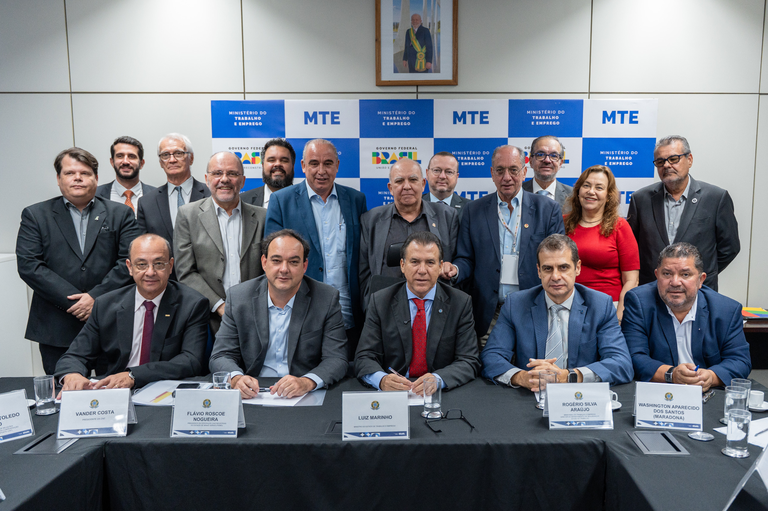
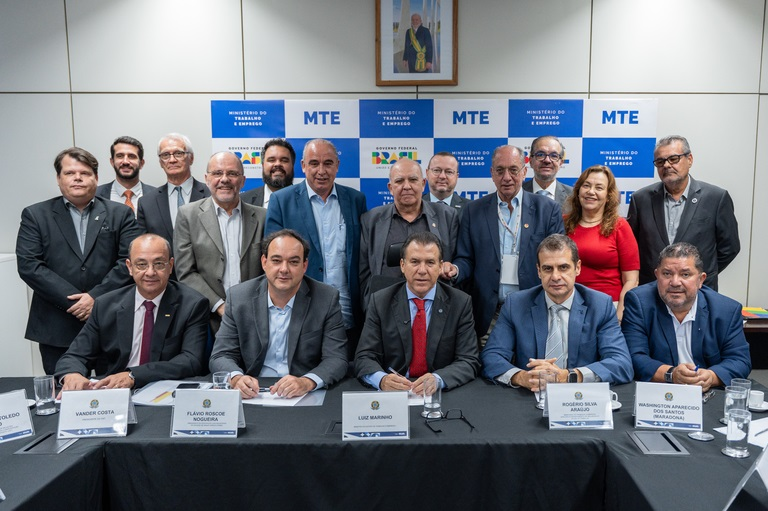
updt: imagem

diff --git a/styles.css b/styles.css
@@ -34,6 +34,10 @@
     /* Shadow tokens */
     --shadow-soft: 0 14px 28px rgba(18, 52, 59, 0.08);
     --shadow-strong: 0 22px 36px rgba(18, 52, 59, 0.12);
+    --surface-radius: 1.4rem;
+    --surface-border: 1px solid rgba(18, 52, 59, 0.08);
+    --surface-shadow: 0 18px 32px rgba(18, 52, 59, 0.1);
+    --surface-shadow-hover: 0 22px 38px rgba(0, 137, 148, 0.16);
 
     --max-width: 1200px;
 }
@@ -55,6 +59,7 @@ body {
 
 html {
     scroll-behavior: smooth;
+    scroll-padding-top: 8rem;
 }
 
 :focus-visible {
@@ -86,6 +91,11 @@ main {
     display: flex;
     flex-direction: column;
     gap: clamp(2.2rem, 5vw, 4rem);
+}
+
+section[id],
+footer[id] {
+    scroll-margin-top: 8rem;
 }
 
 @supports (content-visibility: auto) {
@@ -355,6 +365,7 @@ main {
     letter-spacing: 0.04em;
     text-transform: uppercase;
     color: var(--color-primary-dark);
+    max-width: 18ch;
 }
 
 .section p {
@@ -363,8 +374,26 @@ main {
     line-height: 1.7;
 }
 
+.section-lead {
+    max-width: 46rem;
+    font-size: 1.02rem;
+}
+
 .section.section--accent p {
     color: var(--color-text);
+}
+
+.news-card,
+.service-cards article,
+.client-grid figure,
+.about-credentials,
+.location-card,
+.location-directions,
+.contact-card,
+.contact-sidebar {
+    border-radius: var(--surface-radius);
+    border: var(--surface-border);
+    box-shadow: var(--surface-shadow);
 }
 
 .service-cards {
@@ -375,9 +404,7 @@ main {
 
 .service-cards article {
     padding: clamp(1.5rem, 3.4vw, 1.9rem) clamp(1.4rem, 3vw, 1.8rem);
-    border-radius: 1.4rem;
     background: linear-gradient(150deg, rgba(255, 255, 255, 0.92), rgba(226, 240, 242, 0.9));
-    border: 1px solid var(--color-line);
     transition: transform 0.2s ease, box-shadow 0.2s ease;
 }
 
@@ -388,7 +415,7 @@ main {
 .service-cards article:hover,
 .service-cards article:focus-within {
     transform: translateY(-6px);
-    box-shadow: 0 22px 38px rgba(0, 137, 148, 0.18);
+    box-shadow: var(--surface-shadow-hover);
 }
 
 .service-cards h3 {
@@ -408,10 +435,7 @@ main {
 .client-grid figure {
     margin: 0;
     padding: 1.4rem 1.2rem;
-    border-radius: 1.2rem;
     background: rgba(255, 255, 255, 0.94);
-    border: 1px solid rgba(18, 52, 59, 0.08);
-    box-shadow: 0 14px 28px rgba(18, 52, 59, 0.08);
     display: flex;
     justify-content: center;
     align-items: center;
@@ -423,7 +447,7 @@ main {
 .client-grid figure:hover,
 .client-grid figure:focus-within {
     transform: translateY(-6px);
-    box-shadow: 0 20px 36px rgba(0, 137, 148, 0.16);
+    box-shadow: var(--surface-shadow-hover);
 }
 
 .client-grid picture {
@@ -431,6 +455,7 @@ main {
     align-items: center;
     justify-content: center;
     width: 100%;
+    aspect-ratio: 16 / 10;
     min-height: 80px;
 }
 
@@ -475,10 +500,7 @@ main {
     grid-template-columns: repeat(auto-fit, minmax(220px, 1fr));
     gap: 1.5rem;
     padding: 1.85rem;
-    border-radius: 1.4rem;
     background: var(--color-surface);
-    border: 1px solid var(--color-line);
-    box-shadow: 0 18px 32px rgba(18, 52, 59, 0.08);
 }
 
 .location-card h3 {
@@ -505,10 +527,7 @@ main {
 
 .location-directions {
     background: rgba(255, 255, 255, 0.88);
-    border: 1px solid rgba(18, 52, 59, 0.08);
-    border-radius: 1.35rem;
     padding: clamp(1.45rem, 3vw, 1.85rem);
-    box-shadow: 0 18px 32px rgba(18, 52, 59, 0.08);
 }
 
 .location-directions h3 {
@@ -560,6 +579,7 @@ main {
     display: inline-flex;
     align-items: center;
     gap: 0.4rem;
+    min-height: 44px;
     padding: 0.65rem 1.1rem;
     border-radius: 999px;
     background: rgba(0, 137, 148, 0.14);
@@ -649,10 +669,7 @@ main {
     flex-direction: column;
     gap: clamp(1.3rem, 3vw, 1.8rem);
     background: rgba(255, 255, 255, 0.9);
-    border: 1px solid rgba(18, 52, 59, 0.08);
-    border-radius: 1.5rem;
     padding: clamp(1.6rem, 3.4vw, 2.05rem);
-    box-shadow: 0 22px 36px rgba(18, 52, 59, 0.12);
     -webkit-backdrop-filter: blur(6px);
     backdrop-filter: blur(6px);
 }
@@ -782,26 +799,31 @@ main {
     flex-direction: column;
     gap: clamp(1.2rem, 3vw, 1.6rem);
     background: rgba(255, 255, 255, 0.78);
-    border: 1px solid rgba(18, 52, 59, 0.1);
-    border-radius: 1.5rem;
     overflow: hidden;
-    box-shadow: 0 22px 32px rgba(18, 52, 59, 0.1);
 }
 
 .contact-media img {
     width: 100%;
     height: 100%;
     object-fit: cover;
+    object-position: center 22%;
 }
 
 .news-media {
     min-height: 100%;
+    aspect-ratio: 4 / 3;
 }
 
 .news-media picture,
 .contact-media picture {
     display: block;
     height: 100%;
+    width: 100%;
+}
+
+.contact-media {
+    aspect-ratio: 16 / 10;
+    overflow: hidden;
 }
 
 .contact-sidebar-body {
@@ -860,6 +882,8 @@ main {
     display: inline-flex;
     justify-content: center;
     align-items: center;
+    gap: 0.45rem;
+    min-height: 44px;
     padding: 0.8rem 1.3rem;
     border-radius: 999px;
     background: linear-gradient(120deg, var(--color-primary) 0%, var(--color-primary-dark) 100%);
@@ -1202,6 +1226,7 @@ main {
     width: 100%;
     height: 100%;
     object-fit: cover;
+    object-position: center 32%;
 }
 
 .hero-slide figcaption {
@@ -1379,7 +1404,11 @@ main {
 }
 
 .cta {
-    display: inline-block;
+    display: inline-flex;
+    align-items: center;
+    justify-content: center;
+    gap: 0.45rem;
+    min-height: 44px;
     padding: 0.9rem 1.6rem;
     border-radius: 999px;
     background: linear-gradient(120deg, var(--color-primary) 0%, var(--color-primary-dark) 100%);
@@ -1394,6 +1423,12 @@ main {
 .cta:focus-visible {
     transform: translateY(-2px);
     box-shadow: 0 14px 26px rgba(0, 137, 148, 0.25);
+}
+
+a.cta[target="_blank"]::after,
+.contact-cta[target="_blank"]::after {
+    content: "\2197";
+    font-size: 0.9rem;
 }
 
 .highlight {
@@ -1455,6 +1490,13 @@ main {
     letter-spacing: 0.02em;
 }
 
+.highlight-item[target="_blank"] .highlight-title::after {
+    content: "\2197";
+    margin-left: 0.4rem;
+    font-size: 0.82em;
+    color: var(--color-primary-dark);
+}
+
 .highlight-desc {
     font-size: 0.85rem;
     color: var(--color-muted);
@@ -1470,9 +1512,6 @@ main {
     gap: clamp(1.1rem, 3vw, 1.5rem);
     align-items: center;
     background: var(--color-surface);
-    border-radius: 1.4rem;
-    border: 1px solid var(--color-line);
-    box-shadow: 0 18px 32px rgba(18, 52, 59, 0.1);
     overflow: hidden;
 }
 
@@ -1480,6 +1519,7 @@ main {
     width: 100%;
     height: 100%;
     object-fit: cover;
+    object-position: center 22%;
 }
 
 .news-media--insight {
@@ -1556,6 +1596,11 @@ main {
     flex-direction: column;
     gap: 0.8rem;
     padding: 1.75rem;
+}
+
+.news-content .cta {
+    align-self: flex-start;
+    margin-top: 0.2rem;
 }
 
 .news-tag {

diff --git a/index.html b/index.html
@@ -378,7 +378,7 @@
         <section id="clientes" class="section">
             <div class="section-inner">
                 <h2 class="section-title">Clientes</h2>
-                <p>Apoiamos empresas, escritórios jurídicos e instituições públicas em decisões assertivas e seguras.
+                <p class="section-lead">Apoiamos empresas, escritórios jurídicos e instituições públicas em decisões assertivas e seguras.
                 </p>
                 <div class="client-grid" aria-label="Clientes atendidos">
                     <figure>
@@ -468,6 +468,10 @@
         <section id="localizacao" class="section section--accent">
             <div class="section-inner">
                 <h2 class="section-title">Localização</h2>
+                <p class="section-lead">
+                    Estamos em São Manuel, interior de São Paulo, com estrutura preparada para exames clínicos,
+                    atendimentos ocupacionais e suporte a perícias presenciais ou on-line.
+                </p>
                 <div class="location-wrapper">
                     <div class="location-details">
                         <div class="location-card">
@@ -513,7 +517,7 @@
         <section id="contato" class="section section--accent contact-section">
             <div class="section-inner">
                 <h2 class="section-title">Contato</h2>
-                <p>Fale com nossa equipe médica e agende avaliações, perícias ou treinamentos especializados:</p>
+                <p class="section-lead">Fale com nossa equipe médica e agende avaliações, perícias ou treinamentos especializados:</p>
                 <div class="contact-wrapper">
                     <div class="contact-card">
                         <div class="contact-card-header">
